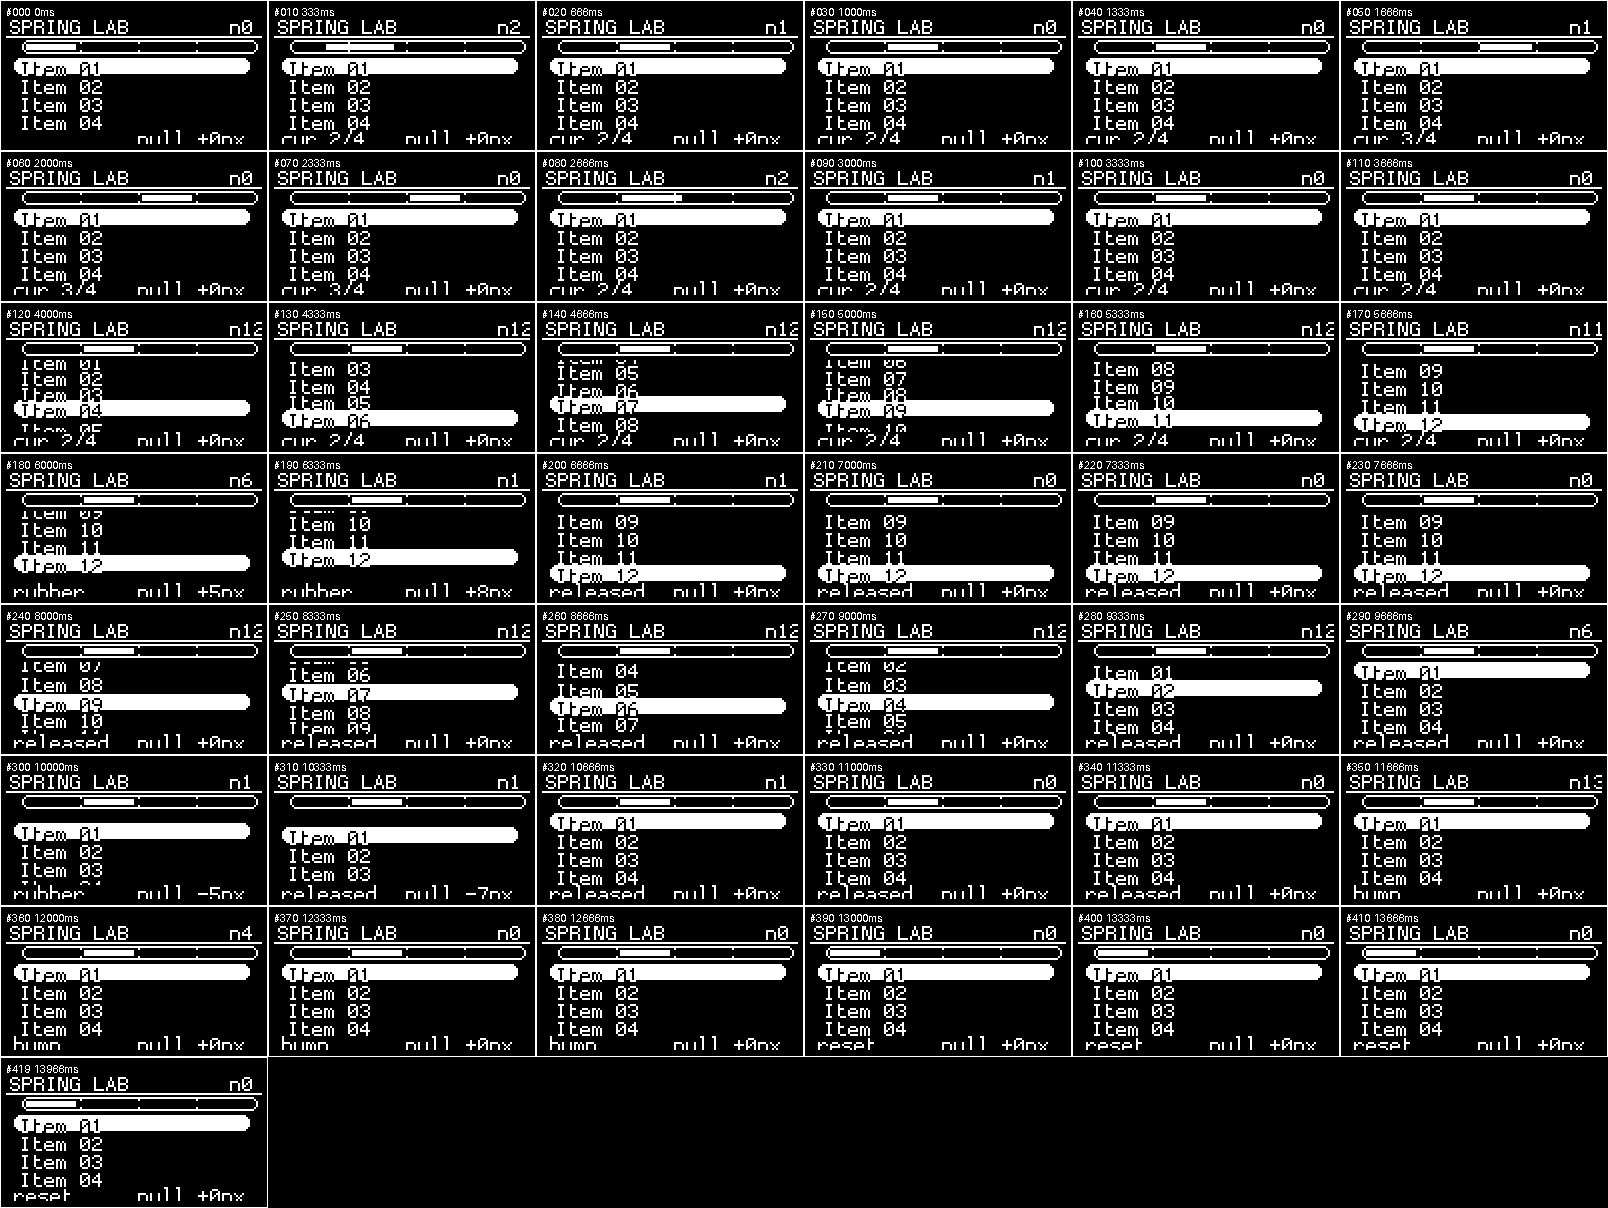
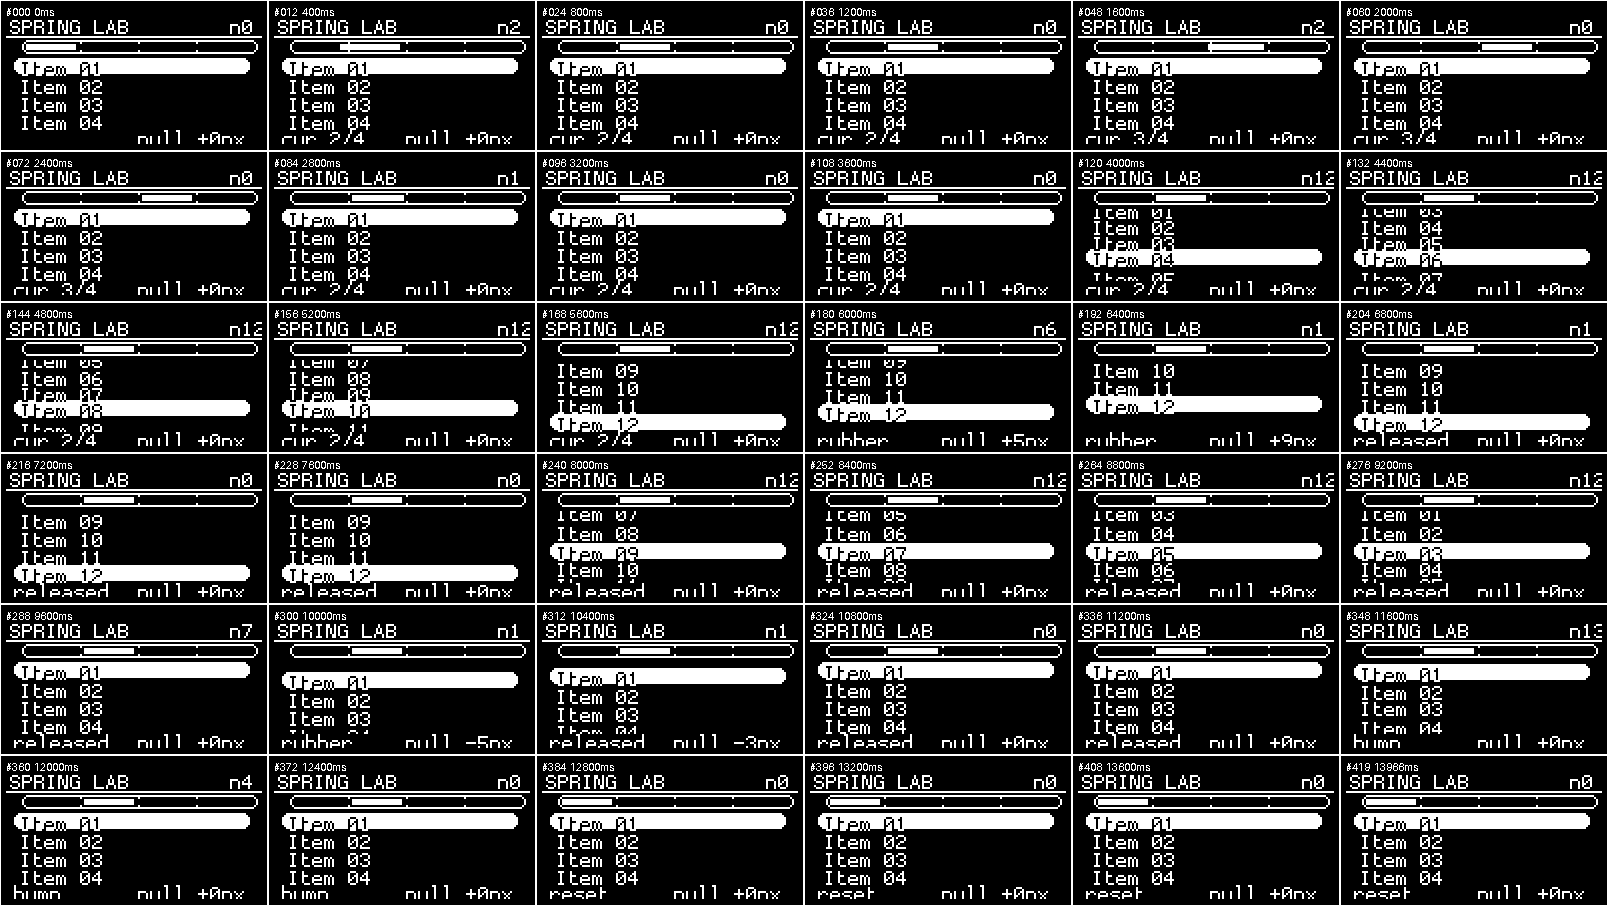
概览图三张统一成每 12 帧一格，README 把三张都放出来
spring-lab 那张原来是每 10 帧一格、文件名还叫 out/contact.png，和另外
两张（每 12 帧、*-contact.png）对不上。render.py 的默认值改成
out/spring-lab-contact.png 和 --every 12，build.sh 三条命令写全，README 的
"每格差 12 帧"就对三张都成立了。

顺带把 spring-lab 那张概览图补进 README，之前它在 docs/ 里躺着没人引用。

diff --git a/host/render.py b/host/render.py
@@ -54,10 +54,10 @@ def main() -> int:
     ap = argparse.ArgumentParser(description="render lilt-c host frames")
     ap.add_argument("--src", default="out/frames.raw")
     ap.add_argument("--gif", default="out/spring-lab.gif")
-    ap.add_argument("--contact", default="out/contact.png")
+    ap.add_argument("--contact", default="out/spring-lab-contact.png")
     ap.add_argument("--scale", type=int, default=3, help="GIF 放大倍数（默认 3）")
     ap.add_argument("--fps", type=int, default=30, help="GIF 帧率，要和录帧的 DT 一致")
-    ap.add_argument("--every", type=int, default=10, help="概览图每隔几帧取一张")
+    ap.add_argument("--every", type=int, default=12, help="概览图每隔几帧取一张")
     ap.add_argument("--cscale", type=int, default=2, help="概览图每格的放大倍数（默认 2）")
     ap.add_argument("--png", action="store_true", help="额外导出每帧 PNG")
     ap.add_argument("--pad", type=int, default=6, help="概览图每格留白")

diff --git a/docs/internals.md b/docs/internals.md
@@ -149,7 +149,7 @@ sh host/build.sh          # 编译 + 跑 101 项自检 + 录三段帧 + 出 GIF 
 sh host/build-esp32.sh    # 用 Arduino 的 riscv32 工具链真交叉编译一遍，报占用
 ```
 
-`host/build.sh` 产出 `out/tour.gif`、`out/tour-contact.png`、`out/gallery.gif`、`out/gallery-contact.png`、`out/spring-lab.gif`、`out/contact.png`。`*-contact.png` 是每 12 帧拼一张的概览图，一眼看完整个应用。想单独出图：
+`host/build.sh` 产出 `out/tour.gif`、`out/tour-contact.png`、`out/gallery.gif`、`out/gallery-contact.png`、`out/spring-lab.gif`、`out/spring-lab-contact.png`。`*-contact.png` 是每 12 帧拼一张的概览图，一眼看完整个应用。想单独出图：
 
 ```sh
 python host/render.py --src out/frames-tour.raw --gif out/t.gif --contact out/c.png --every 12
